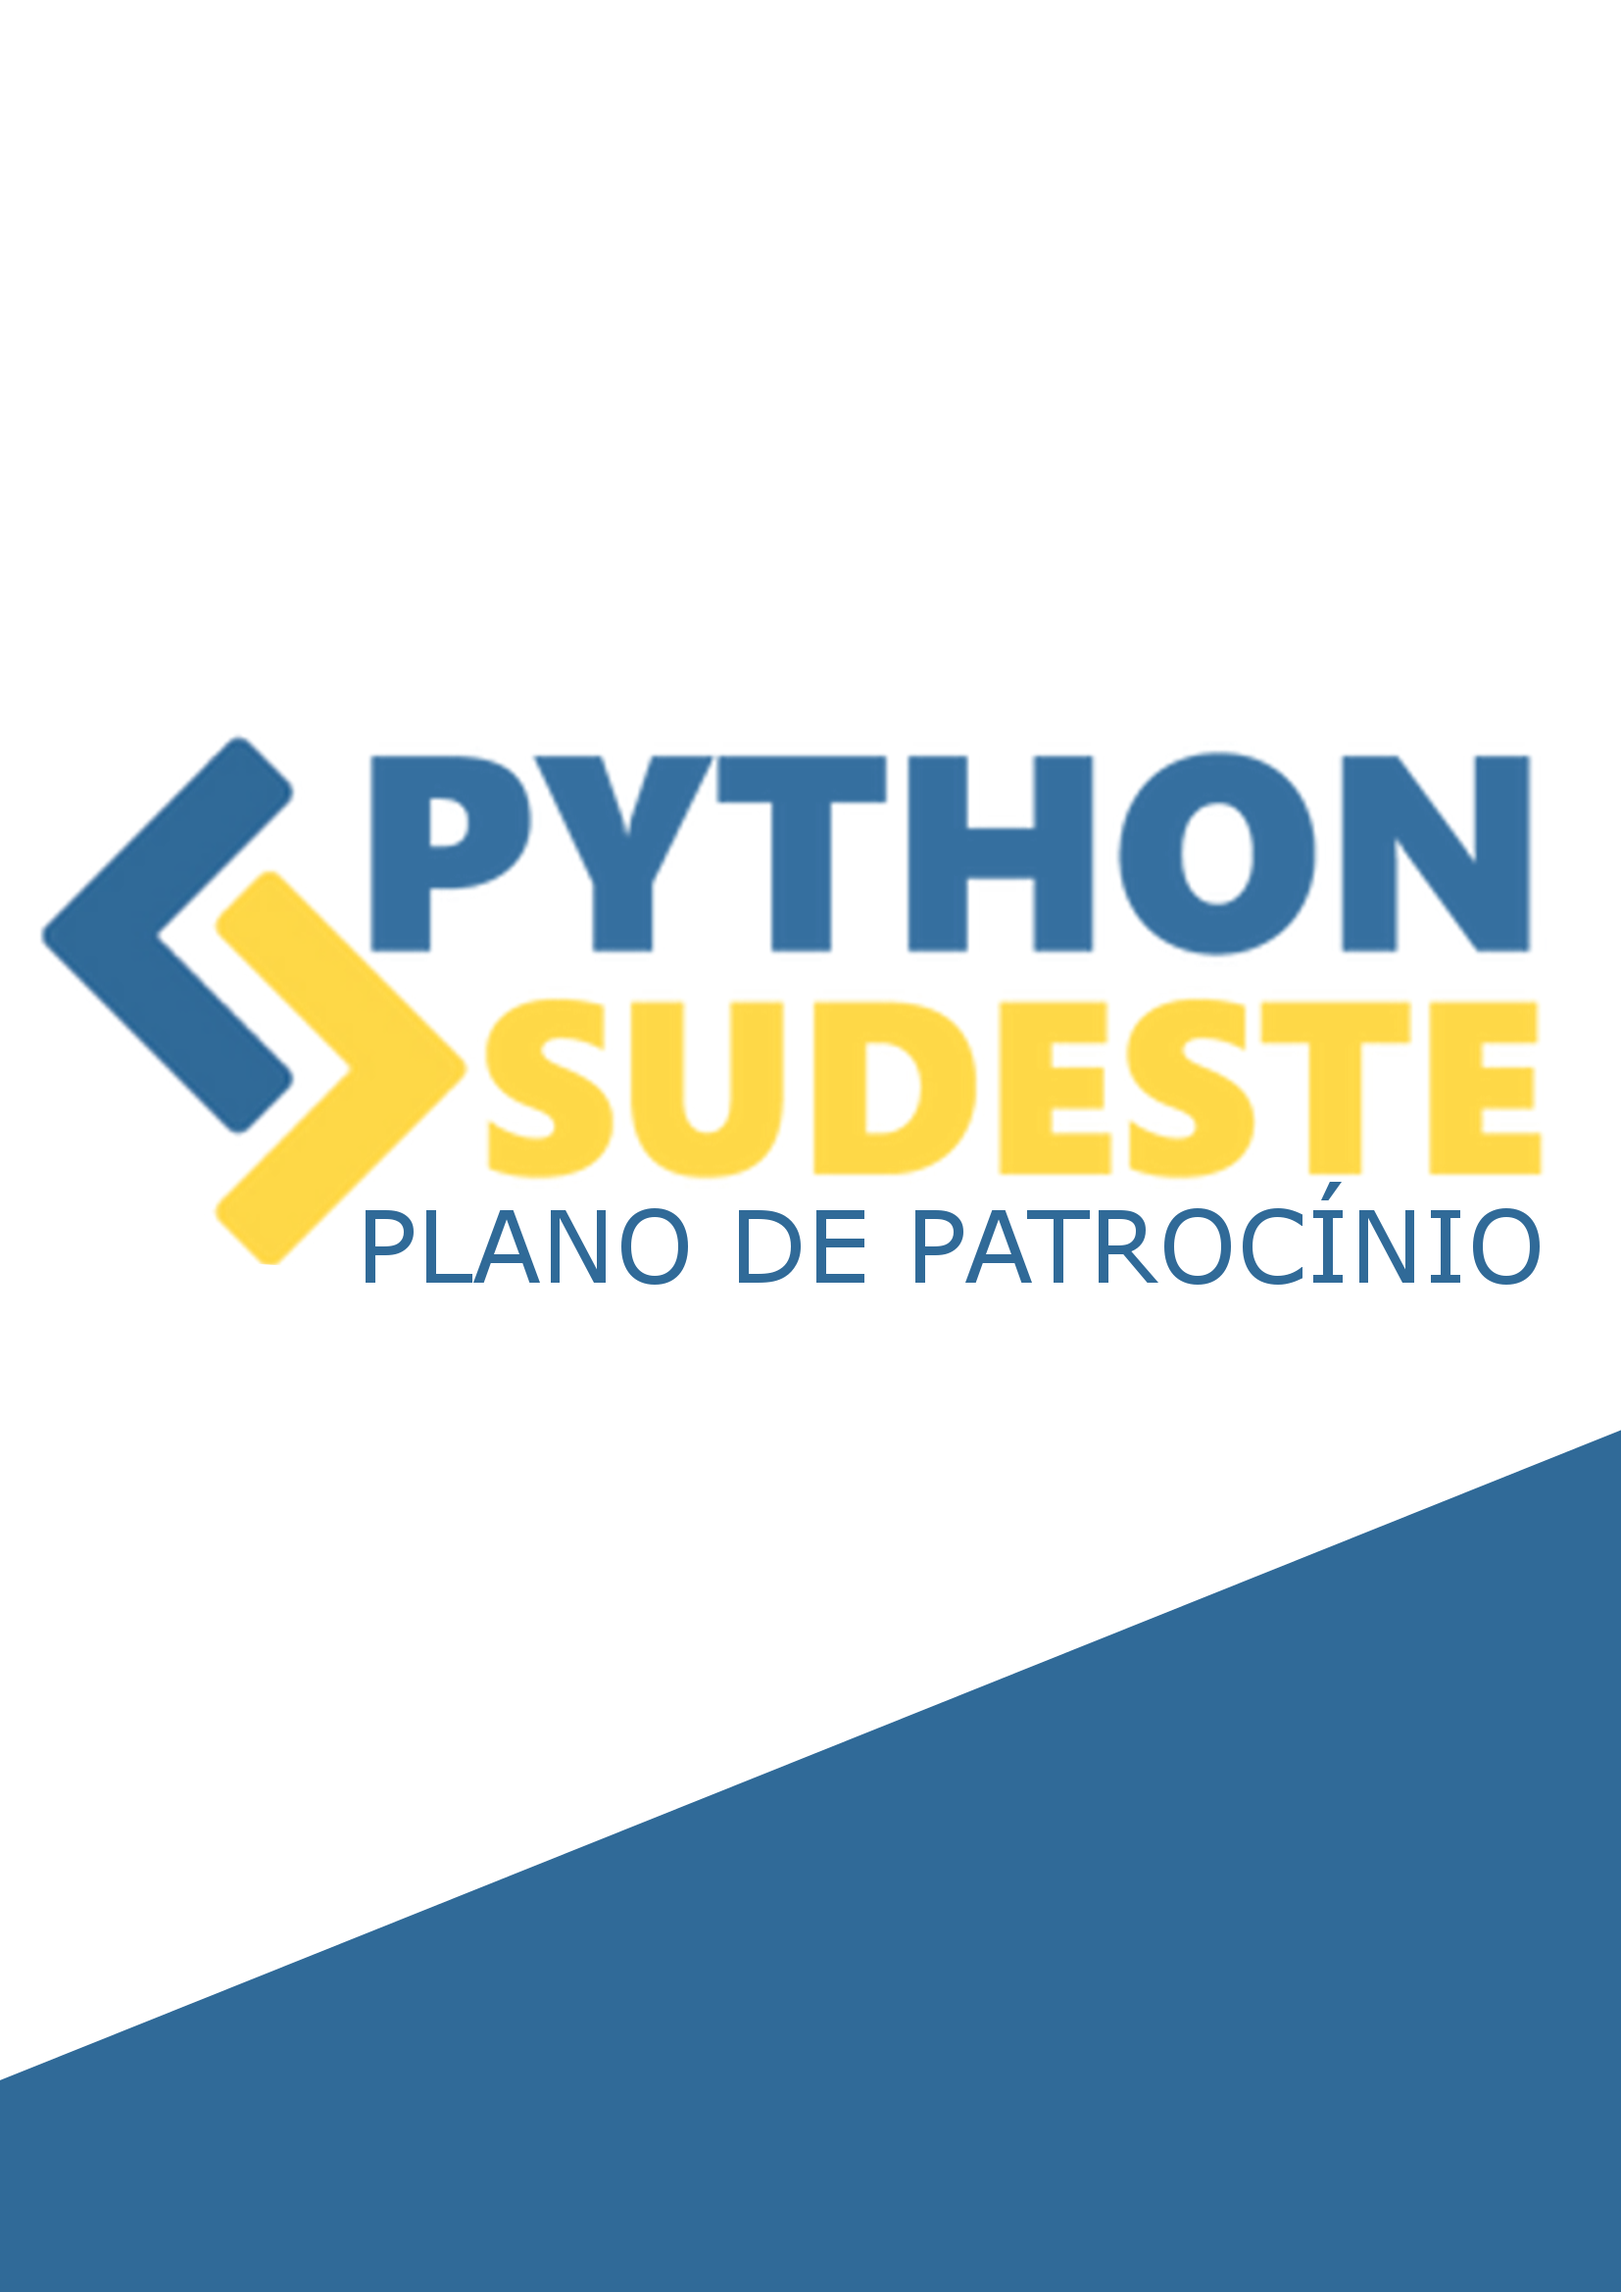
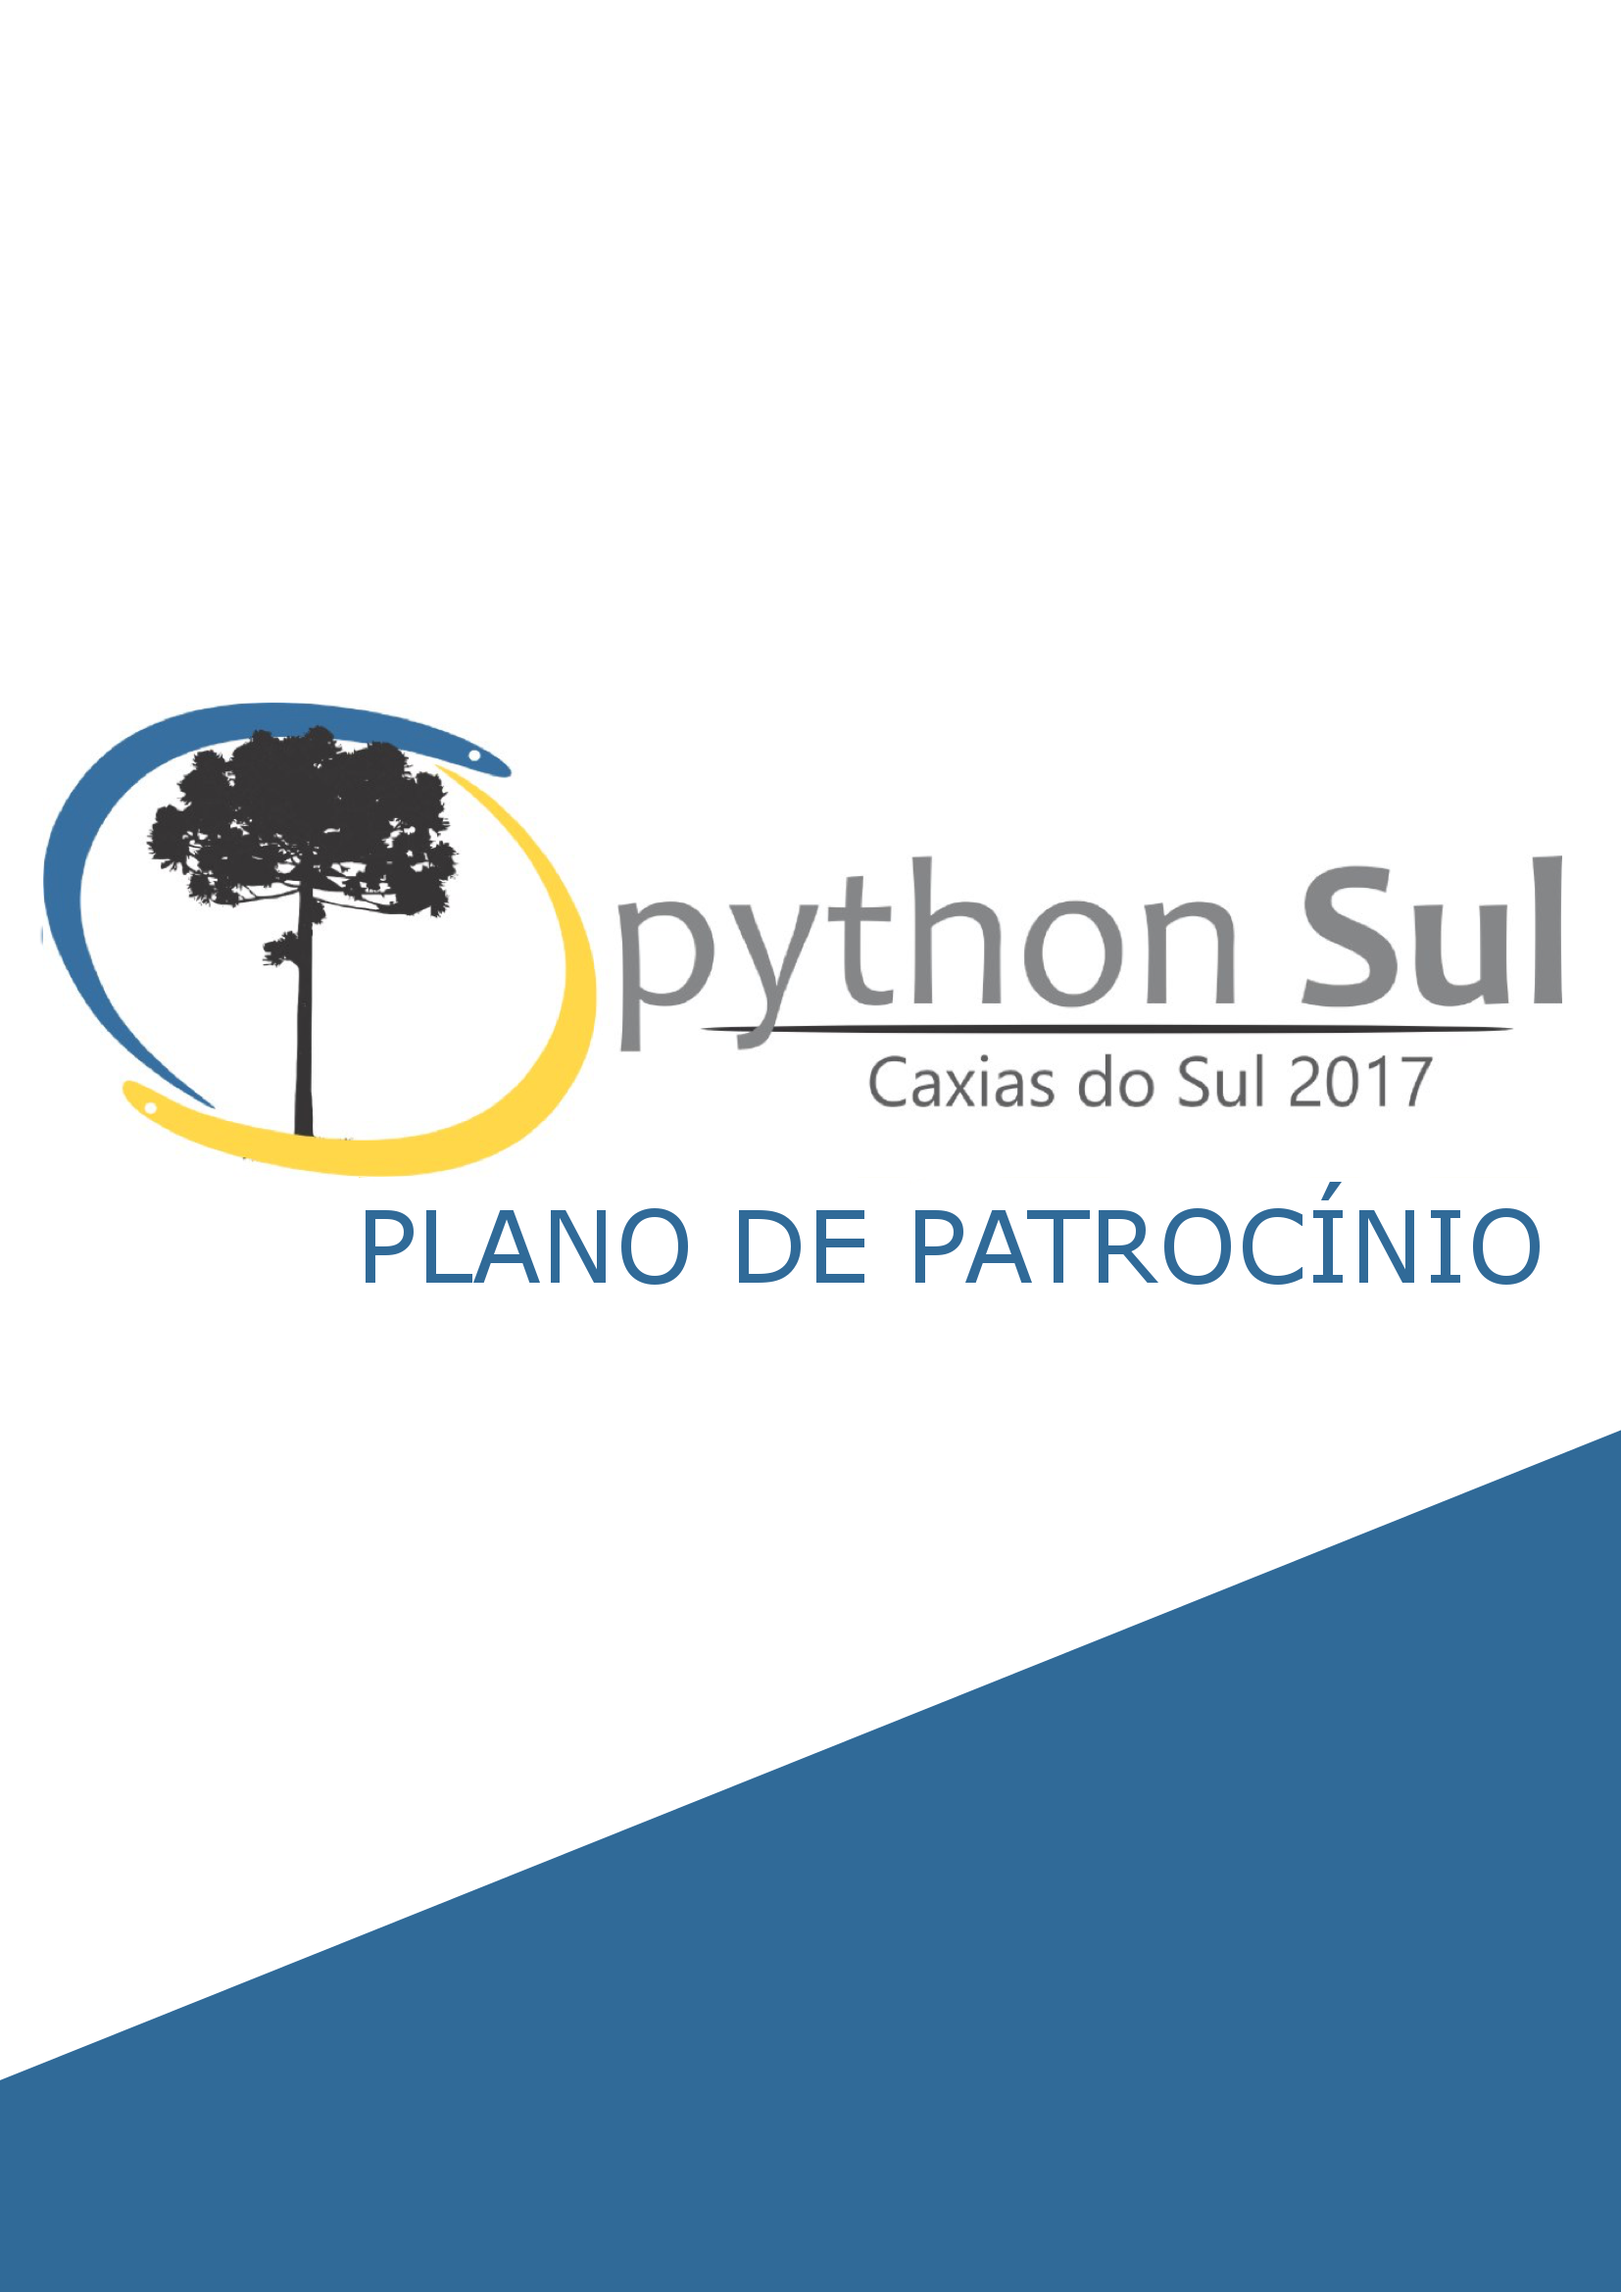
Mundancas iniciais para Python Sul

Changed region(s): [[0.0, 0.2809, 0.9867, 0.5618]]

diff --git a/report.tex b/report.tex
@@ -12,8 +12,8 @@
 
 %%%%%%%%%%%%%%%
 % Title Page
-\title{Rio de Janeiro , 2017}
-\author{pythonsudeste@gmail.com \\ Bernardo Fontes (021 99629 1621)}
+\title{Caxias do Sul , 2017}
+\author{pythonsul@gmail.com \\ Adriano Margarin (054 ????? ????)}
 \date{\today}
 %%%%%%%%%%%%%%%
 
@@ -21,19 +21,19 @@
 \maketitle
 
 
-\section{Python Sudeste 2017}
+\section{Python Sul 2017}
 
-Python Sudeste é um evento voltado para o público adepto da linguagem de programação Python que tem como objetivo reunir desenvolvedores de Minas Gerais, Rio de Janeiro, São Paulo e Espírito Santo favorecendo a troca de experiências e conhecimentos.
+Python Sul é um evento voltado para o público adepto da linguagem de programação Python que tem como objetivo reunir desenvolvedores do Rio Grande do Sul, Santa Catarina e Paraná favorecendo a troca de experiências e conhecimentos.
 
-Com a Python Sudeste 2017, visamos difundir a linguagem de programação Python para iniciantes e desenvolvedores que utilizem outras linguagens de programação, trazendo novas pessoas para a comunidade, além de promover a troca de conhecimento e interação entre os desenvolvedores.
+Com a Python Sul 2017, visamos difundir a linguagem de programação Python para iniciantes e desenvolvedores que utilizem outras linguagens de programação, trazendo novas pessoas para a comunidade, além de promover a troca de conhecimento e interação entre os desenvolvedores.
 
 A conferência é um evento sem fins lucrativos, organizada pela comunidade e para a comunidade, o que garante a possibilidade de um ingresso muito mais barato em comparação a outros eventos de tecnologia e portanto acessível a um maior número de pessoas.
 
 Python é uma linguagem amplamente utilizada em diversos segmentos econômicos, resolvendo problemas do dia a dia de forma robusta, eficiente e de fácil acesso. É uma das dez linguagens mais utilizadas no mundo segundo o índice TIOBE, que classifica as linguagens de programação pela frequência de pesquisa na Web.
 
-\section{Porque patrocinar a Python Sudeste?}
+\section{Porque patrocinar a Python Sul?}
 
-Os patrocinadores são responsáveis por fazer a Python Sudeste possível com baixos preços de ingressos. É necessária ajuda financeira paras diversas atividades que ocorrem durante o evento e infraestrutura. As empresas que apoiam a Python Sudeste, por sua vez, apoiam toda a comunidade Python tornando possível para muitos desenvolvedores participarem do evento, apresentarem conteúdos relevantes e também nos permitem disponibilizar material online para os demais membros da comunidade aproveitarem as palestras de casa.
+Os patrocinadores são responsáveis por fazer a Python Sul possível com baixos preços de ingressos. É necessária ajuda financeira paras diversas atividades que ocorrem durante o evento e infraestrutura. As empresas que apoiam a Python Sul, por sua vez, apoiam toda a comunidade Python tornando possível para muitos desenvolvedores participarem do evento, apresentarem conteúdos relevantes e também nos permitem disponibilizar material online para os demais membros da comunidade aproveitarem as palestras de casa.
 
 E essa contribuição acompanha um excelente conjunto de benefícios aos nossos patrocinadores, como:
 \begin{description}[align=right,labelwidth=4cm]
@@ -46,18 +46,16 @@ E essa contribuição acompanha um excelente conjunto de benefícios aos nossos 
 
 \section{Alcance em Mídias Sociais: Facebook}
 \begin{itemize}[label={}]
-    \item \emph{PythonSudeste} (oficial do evento) : 143 seguidores
-    \item \emph{PythonRio} : 1561 seguidores
-    \item \emph{UAI Python - Python MG } : 768 seguidores
-    \item \emph{Grupy-SP} :  614 seguidores
-    \item \emph{Grupy-RP} : 190 seguidores
+    \item \emph{PythonSul} (oficial do evento) : x seguidores
+    \item \emph{PythonFloripa} : x seguidores
+    \item \emph{PyTchê } : x seguidores
 \end{itemize}
 
-\section{Atuação da comunidade Python na Região Sudeste}
+\section{Atuação da comunidade Python na Região Sul}
 
 Os desenvolvedores da região sudeste brasileira contribuíram de maneira substancial para o crescimento da comunidade Python no Brasil e na sua expressiva atuação.
 
-Hoje, temos mais de 100 projetos open source mantidos por pythonistas dos 4 estados do Sudeste, centenas de empresas utilizando Python com diferentes objetivos como: Análise de dados, Desenvolvimento de aplicações Web, Internet das Coisas, etc.
+Hoje, temos mais de 100 projetos open source mantidos por pythonistas dos 4 estados do Sul, centenas de empresas utilizando Python com diferentes objetivos como: Análise de dados, Desenvolvimento de aplicações Web, Internet das Coisas, etc.
 
 \section{A cidade: Rio de Janeiro}
 
@@ -72,9 +70,9 @@ Temos concomitantemente por objetivo promover uma maior participação no evento
 
 \section{O evento}
 
-O evento ocorrerá nos dias 05 e 06 de maio na Universidade Veiga de Almeida - Campus Maracanã.
+O evento ocorrerá nos dias 08 a 10 de setembro na Universidade de Caxias do Sul.
 
-Endereço: R. Ibituruna, 108 - Maracanã, Rio de Janeiro - RJ, 20271-020
+Endereço: R. Francisco Getúlio Vargas, 1130 - Petrópolis, Caxias do Sul - RS, 95070-560
 
 Estrutura: Auditório e sala de interação.
 
@@ -139,7 +137,7 @@ Público esperado: 250 participantes
 
 $^1$ Os benefícios de logo no site do evento, logo nos intervalos, logo nos banners e logo nos crachás serão ordenados e com tamanhos proporcionais a cota de patrocínio. Desta forma, os patrocinadores da cota Diamante serão exibidos primeiro e com maior destaque e a gradação de tamanho irá diminuir por categoria para cada um dos benefícios citados.
 
-$^2$ O post do patrocinador será feito pela página do facebook e do twitter nas contas na Python Sudeste e Python Rio. Na página do facebook será feito um post promovido aumentando o alcance.
+$^2$ O post do patrocinador será feito pela página do facebook e do twitter nas contas na Python Sul e Python Rio. Na página do facebook será feito um post promovido aumentando o alcance.
 
 $^3$ Serão permitidas as atividades de: Panfletagem, distribuição de brindes e a exposição de um  banner com dimensões de no máximo 1 metro de largura por 2 metros de  altura.
 

diff --git a/defs.tex b/defs.tex
@@ -52,7 +52,7 @@ head=0ex,foot=3ex}
 \settoheight{\myheight}{\thepage}
 \raisebox{-2ex-0.5\myheight}{\includegraphics[height=4ex]{logo}}
 }
-\cfoot{\color{color2}Python Sudeste 2017}
+\cfoot{\color{color2}Python Sul 2017}
 \rfoot{\color{color2}\thepage}
 \renewcommand\headrulewidth{0pt}
 \renewcommand\footrulewidth{0pt}
